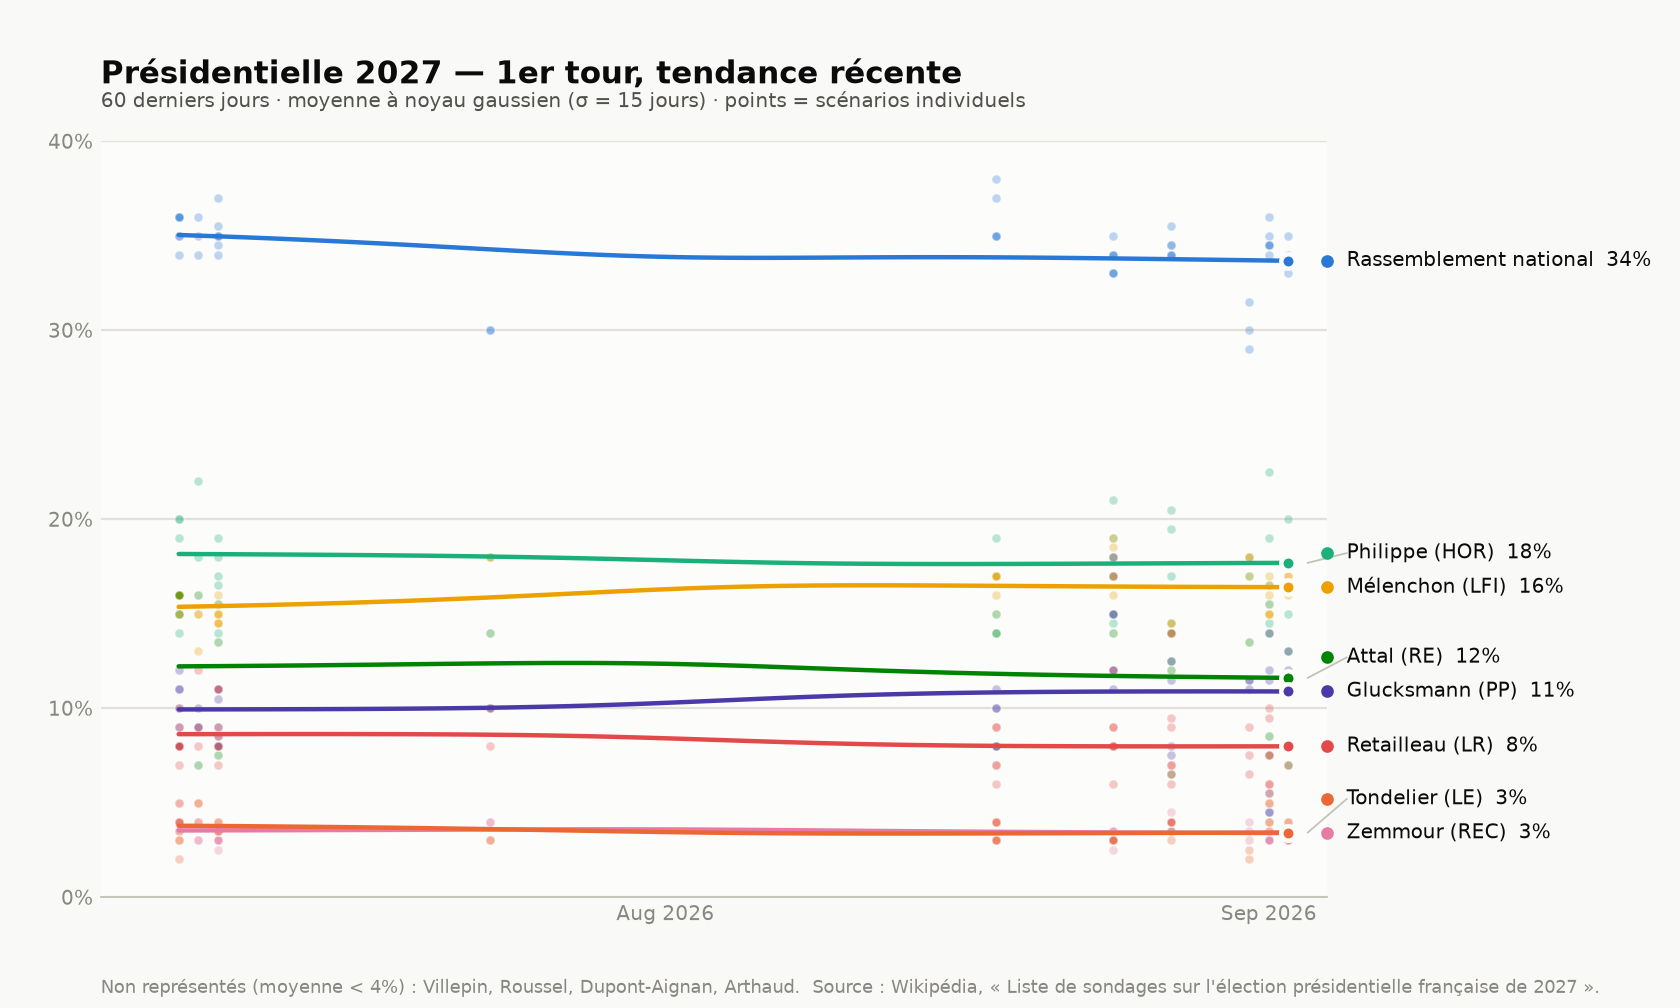
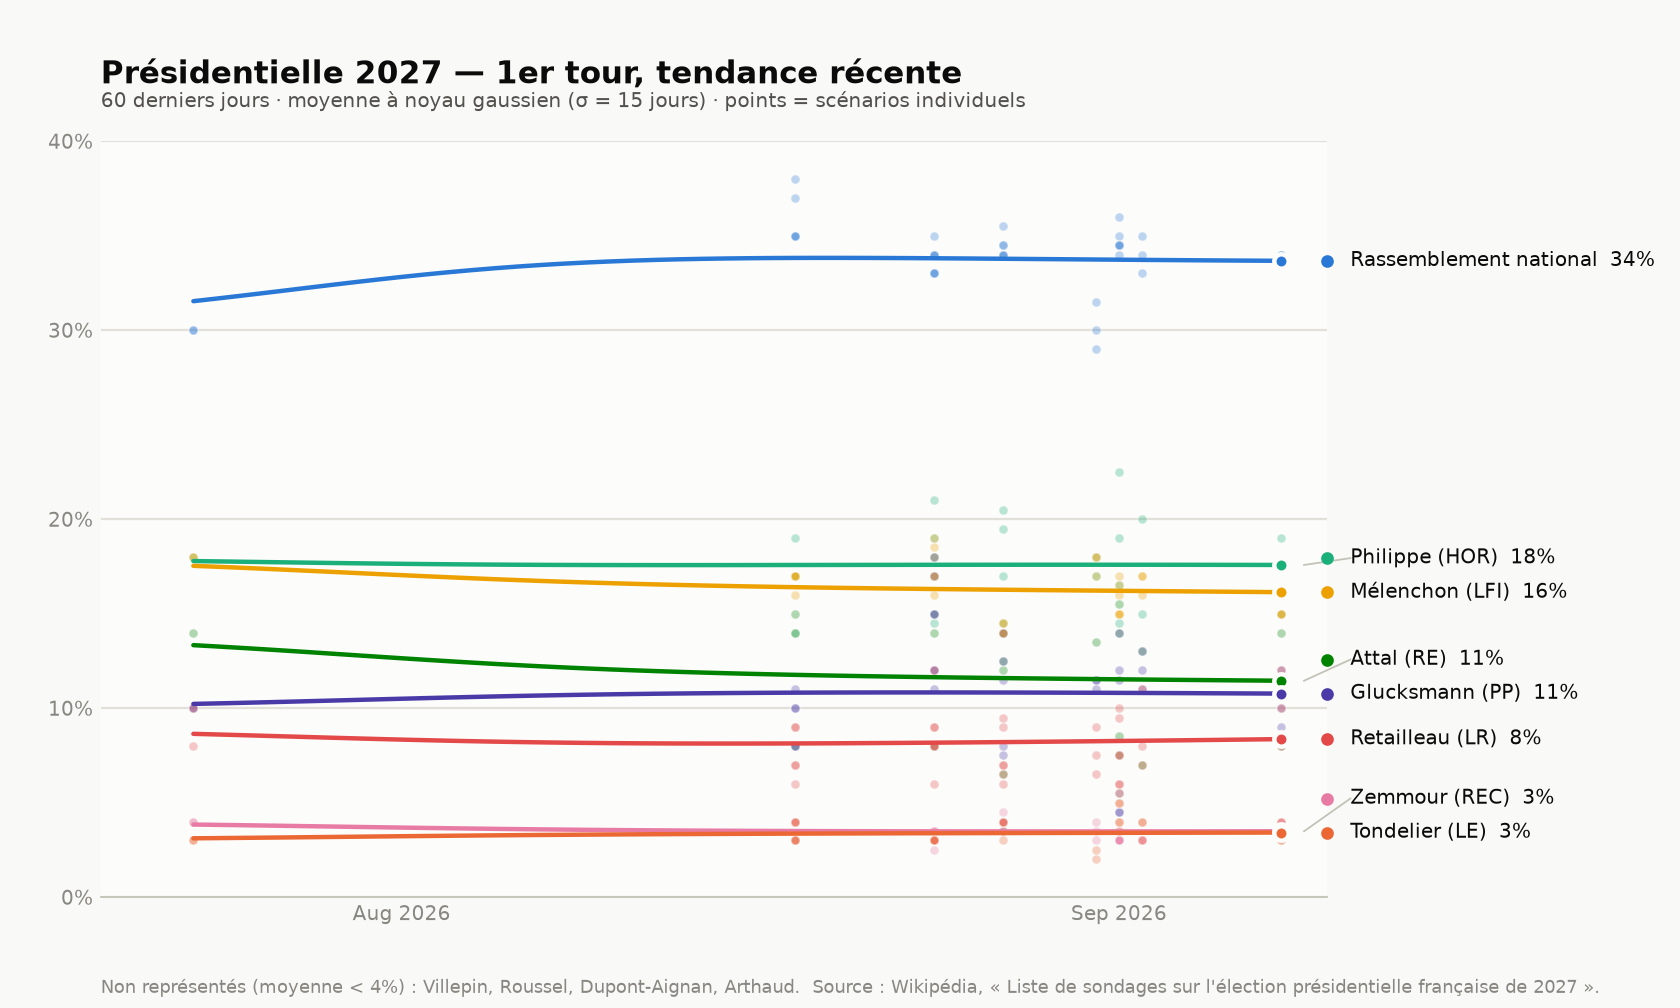
Add OpinionWay 8-9 September 2026 poll; fold Autres header onto Autre
OpinionWay (n=1001, 8-9 September) adds three first-round scenarios:
RN (Le Pen) 34% in all three, Melenchon 15%, Philippe 15-19%,
Glucksmann 9-12%, Attal 8-14%, Retailleau 8-12%.

Wikipedia's Premier/Second semestre 2026 sub-table headers now read
"Autres" instead of "Autre" (present since at least the 2025 table too),
a plain re-wording with no change of meaning -- the catch-all column is
still one column. Without a fix this reads as a brand-new column,
fragmenting the series and printing spurious "new candidate column(s)
Autres" on stderr. FIRST_ROUND_ALIASES already folds header-text variants
onto one canonical column (LePen_RN/Bardella_RN -> RN) for exactly this
kind of continuity reason, so extend it with Autres -> Autre and apply
the alias in header_key's plain-text fallback branch, alongside the two
existing branches that already consult it.

Verified: re-parsing the full 2026 section now parses cleanly (no stderr)
and matches the committed CSV row-for-row except for the three new rows;
the second-round tables are unchanged. Regenerated the three first-round
charts; no new candidate column appeared so SERIES needed no changes.

diff --git a/parse_polls.py b/parse_polls.py
@@ -21,8 +21,11 @@ META_HEADERS = {'Sondeur', 'Date', 'Echantillon'}
 # same series -- the CSV column and visualize_polls.py's SERIES both call it
 # RN -- so the named forms collapse onto it. The second-round tables
 # deliberately keep LePen_RN and Bardella_RN apart: there, which RN candidate
-# was polled is the whole point of the match-up.
-FIRST_ROUND_ALIASES = {'LePen_RN': 'RN', 'Bardella_RN': 'RN'}
+# was polled is the whole point of the match-up. 'Autres' folds onto 'Autre':
+# Wikipedia re-wrote the catch-all header from singular to plural sometime
+# after 2026-08-20 with no change of meaning, and it stays one series rather
+# than fragmenting into a second catch-all column.
+FIRST_ROUND_ALIASES = {'LePen_RN': 'RN', 'Bardella_RN': 'RN', 'Autres': 'Autre'}
 
 # The catch-all column. A note inside it names who the "other" candidate was;
 # a note inside a candidate's own column names a substitute for that
@@ -148,7 +151,8 @@ def header_key(cell):
     if m:
         key = slugify(m.group(1))
         return FIRST_ROUND_ALIASES.get(key, key)
-    return slugify(clean_text(strip_attrs(cell)))
+    key = slugify(clean_text(strip_attrs(cell)))
+    return FIRST_ROUND_ALIASES.get(key, key)
 
 def split_blocks(text):
     """Split a wikitable into its |- delimited row blocks, as lists of cell

diff --git a/README.md b/README.md
@@ -61,7 +61,7 @@ python3 parse_polls.py /tmp/frelec_raw.wiki polls_2027_second_round.csv --second
 First-round voting-intention polls, January–September 2026, scraped from the French
 Wikipedia article
 ["Liste de sondages sur l'élection présidentielle française de 2027"](https://fr.wikipedia.org/wiki/Liste_de_sondages_sur_l%27%C3%A9lection_pr%C3%A9sidentielle_fran%C3%A7aise_de_2027)
-(pulled 2026-09-06).
+(pulled 2026-09-11).
 
 Starting with the 7–8 July 2026 polls (Wikipedia's "Second semestre 2026"
 sub-table), the table switched the RN column from a hypothetical "candidate"
@@ -89,9 +89,9 @@ Lecornu, etc.). A share Wikipedia reports only as an upper bound (e.g. `<1`)
 is encoded as the midpoint of that bound (`0.5`), with the original reading
 kept in `notes`.
 
-Latest poll: OpinionWay (n=1003, 2–3 September) — RN (Le Pen) 33–35%,
-Mélenchon 16–17%, Philippe 15–20%, Glucksmann 11–13%, Attal 7–13%,
-Retailleau 7–11%.
+Latest poll: OpinionWay (n=1001, 8–9 September) — RN (Le Pen) 34%,
+Mélenchon 15%, Philippe 15–19%, Glucksmann 9–12%, Attal 8–14%,
+Retailleau 8–12%.
 
 Caveat (per Wikipedia, citing Le Monde): polls taken a year-plus before a French
 presidential election have historically been poor predictors — in 2022 LFI
@@ -104,7 +104,7 @@ included in this CSV — ask if you want those pulled too.
 
 Second-round (runoff) hypothetical match-up polls, January 2024 – September 2026,
 scraped from the same Wikipedia page's "Sondages concernant le second tour"
-section (pulled 2026-09-06). Each subsection there ("Hypothèse X – Y") polls
+section (pulled 2026-09-11). Each subsection there ("Hypothèse X – Y") polls
 one specific pairing — Attal, Mélenchon, Philippe, Glucksmann and Retailleau
 each against the RN candidate (Bardella through early 2026, Le Pen from her
 2026-07-07 candidacy onward), plus a single early Ruffin–Le Pen poll and, from
